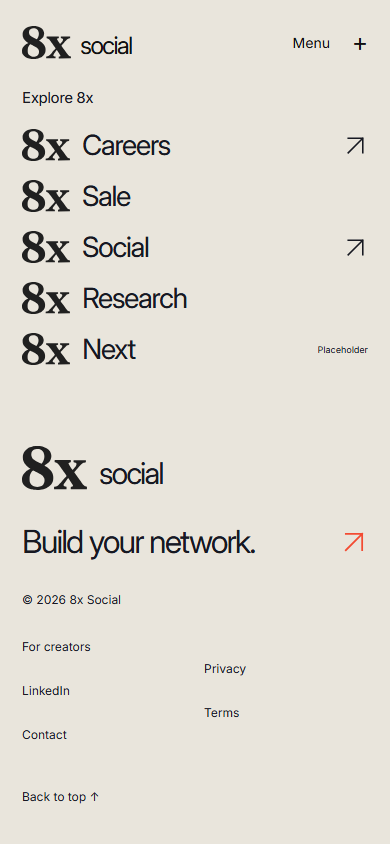
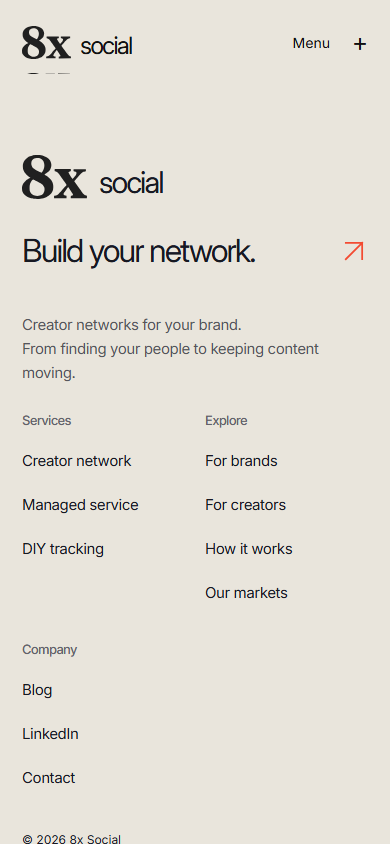
Add complete responsive footer navigation and company information

diff --git a/app/family-footer.css b/app/family-footer.css
@@ -17,10 +17,18 @@
 .family-product small{font-size:10px;letter-spacing:0;margin-left:auto}
 .family-footer{padding:80px 0 25px}
 .family-contact{display:flex;justify-content:space-between;align-items:center;gap:40px}
+.family-information{display:grid;grid-template-columns:1.9fr 1fr 1fr 1fr;gap:5%;margin-top:64px}
+.family-description{font-size:17px;line-height:1.6;letter-spacing:-.025em;max-width:300px;margin:0;color:#55565b}
+.family-information nav{display:flex;flex-direction:column;align-items:flex-start;min-width:0}
+.family-information h2{font-size:13px;line-height:1.5;font-weight:500;color:#626269;margin:0 0 15px}
+.family-information a{font-size:16px;line-height:1.4;min-height:40px;display:flex;align-items:center;letter-spacing:-.025em}
+.family-information a:hover{text-decoration:underline;text-underline-offset:5px;text-decoration-thickness:1px}
 .family-brand{display:flex;align-items:flex-end;gap:12px}.family-brand img{width:98px;height:auto}.family-brand span{font-size:44px;letter-spacing:-.065em;line-height:1.1}
 .family-call{font-size:clamp(26px,3.9vw,65px);letter-spacing:-.055em;line-height:1.1;display:flex;align-items:center;gap:32px}.family-call>svg{width:40px;height:40px;color:#f34b32}
-.family-bottom{margin-top:78px;display:flex;justify-content:space-between;align-items:center;gap:24px;font-size:13px}.family-bottom nav{display:flex;gap:24px}.family-bottom a{min-height:44px;display:flex;align-items:center}.family-bottom a:hover,.family-call:hover{text-decoration:underline;text-underline-offset:5px;text-decoration-thickness:1px}
+.family-bottom{margin-top:54px;display:flex;justify-content:space-between;align-items:center;gap:24px;font-size:13px}.family-bottom nav{display:flex;gap:24px}.family-bottom a{min-height:44px;display:flex;align-items:center}.family-bottom a:hover,.family-call:hover{text-decoration:underline;text-underline-offset:5px;text-decoration-thickness:1px}
 .family-ending :focus-visible{outline:2px solid #171922;outline-offset:6px}
+@media(max-width:900px){.family-information{grid-template-columns:repeat(3,minmax(0,1fr));gap:30px}.family-description{grid-column:1/-1;max-width:380px}}
+@media(max-width:480px){.family-information{grid-template-columns:repeat(2,minmax(0,1fr));margin-top:44px;gap:26px 20px}.family-description{font-size:15px}.family-information a{min-height:44px;font-size:15px}.family-information h2{margin-bottom:8px}}
 /* All earlier ornamental motion is quiet; media and user controls still work. */
 main *,main *::before,main *::after,.site-header *,.site-header *::before,.site-header *::after{animation:none!important;transition:none!important}.reach-atlas .ra-country path{transform:none!important;filter:none!important}
 .site-header[data-ending=true]{--nav-surface:#e9e5dc!important}.site-header[data-ending=true] .nav-contact{background:#171922!important;color:#f4f3ee!important}.site-header[data-ending=true] .nav-link::after{background:#f34b32!important}

diff --git a/components/family-footer.tsx b/components/family-footer.tsx
@@ -134,7 +134,13 @@ export function FamilyFooter() {
     </section>
     <footer id="contact" className="family-footer page-width" aria-label="8x Social footer">
       <div className="family-contact"><a className="family-brand" href="#network" aria-label="8x Social back to top"><img src="/8x.svg" alt="" width="386" height="264" /><span>social</span></a><a className="family-call" href={links.call}>Build your network.<Arrow /></a></div>
-      <div className="family-bottom"><span>© {new Date().getFullYear()} 8x Social</span><nav aria-label="Company"><a href={links.creators}>For creators</a><a href="https://www.linkedin.com/company/8xhq">LinkedIn</a><a href={links.call}>Contact</a></nav><nav aria-label="Legal"><a href="https://www.8x.social/en/privacy">Privacy</a><a href="https://www.8x.social/en/terms">Terms</a></nav><a href="#network">Back to top ↑</a></div>
+      <div className="family-information">
+        <p className="family-description">Creator networks for your brand.<br />From finding your people to keeping content moving.</p>
+        <nav aria-label="Services"><h2>Services</h2><a href="https://www.8x.social/en/creator-network">Creator network</a><a href="https://www.8x.social/en/full-service">Managed service</a><a href="https://www.8x.social/en/tracking">DIY tracking</a></nav>
+        <nav aria-label="Explore"><h2>Explore</h2><a href="#network">For brands</a><a href={links.creators}>For creators</a><a href="#day-to-day">How it works</a><a href="#reach-atlas">Our markets</a></nav>
+        <nav aria-label="Company"><h2>Company</h2><a href="https://www.8x.social/en/blog">Blog</a><a href="https://www.linkedin.com/company/8xhq">LinkedIn</a><a href={links.call}>Contact</a></nav>
+      </div>
+      <div className="family-bottom"><span>© {new Date().getFullYear()} 8x Social</span><nav aria-label="Legal"><a href="https://www.8x.social/en/privacy">Privacy</a><a href="https://www.8x.social/en/terms">Terms</a></nav><a href="#network">Back to top ↑</a></div>
     </footer>
   </div>;
 }

diff --git a/docs/FOOTER.md b/docs/FOOTER.md
@@ -1,5 +1,9 @@
 # Layered stone family ending — September 17, 2026
 
+## Footer information
+
+The user requested a more useful footer inspired by Listen Labs and explicitly asked to push everything. Under the brand/contact row, an open grid now contains a short brand description, Services (creator network, managed service, DIY tracking), Explore (brands, creators, how it works, markets), and Company (blog, LinkedIn, contact). Privacy/Terms and copyright remain below. No divider lines, new surface colour or extra animation. At tablet size the description spans all three columns; phones use two navigation columns. Service/blog/legal destinations were checked against the original https://www.8x.social/en/for-brands footer on September 17; the hierarchy reference was https://listenlabs.ai/. No invented addresses, product destinations or company claims.
+
 ## Current revision: small, slow colour current
 
 This section supersedes the stationary-endpoint descriptions below. The user selected `design/footer-color-current-v1`, then rejected a fixed-grid implementation, a generic ribbon, and excessive motion/colour. Latest direction: subtle movement and just a small colour trace. Review at http://localhost:3904/?v=subtle-current-2#family and scroll down.
